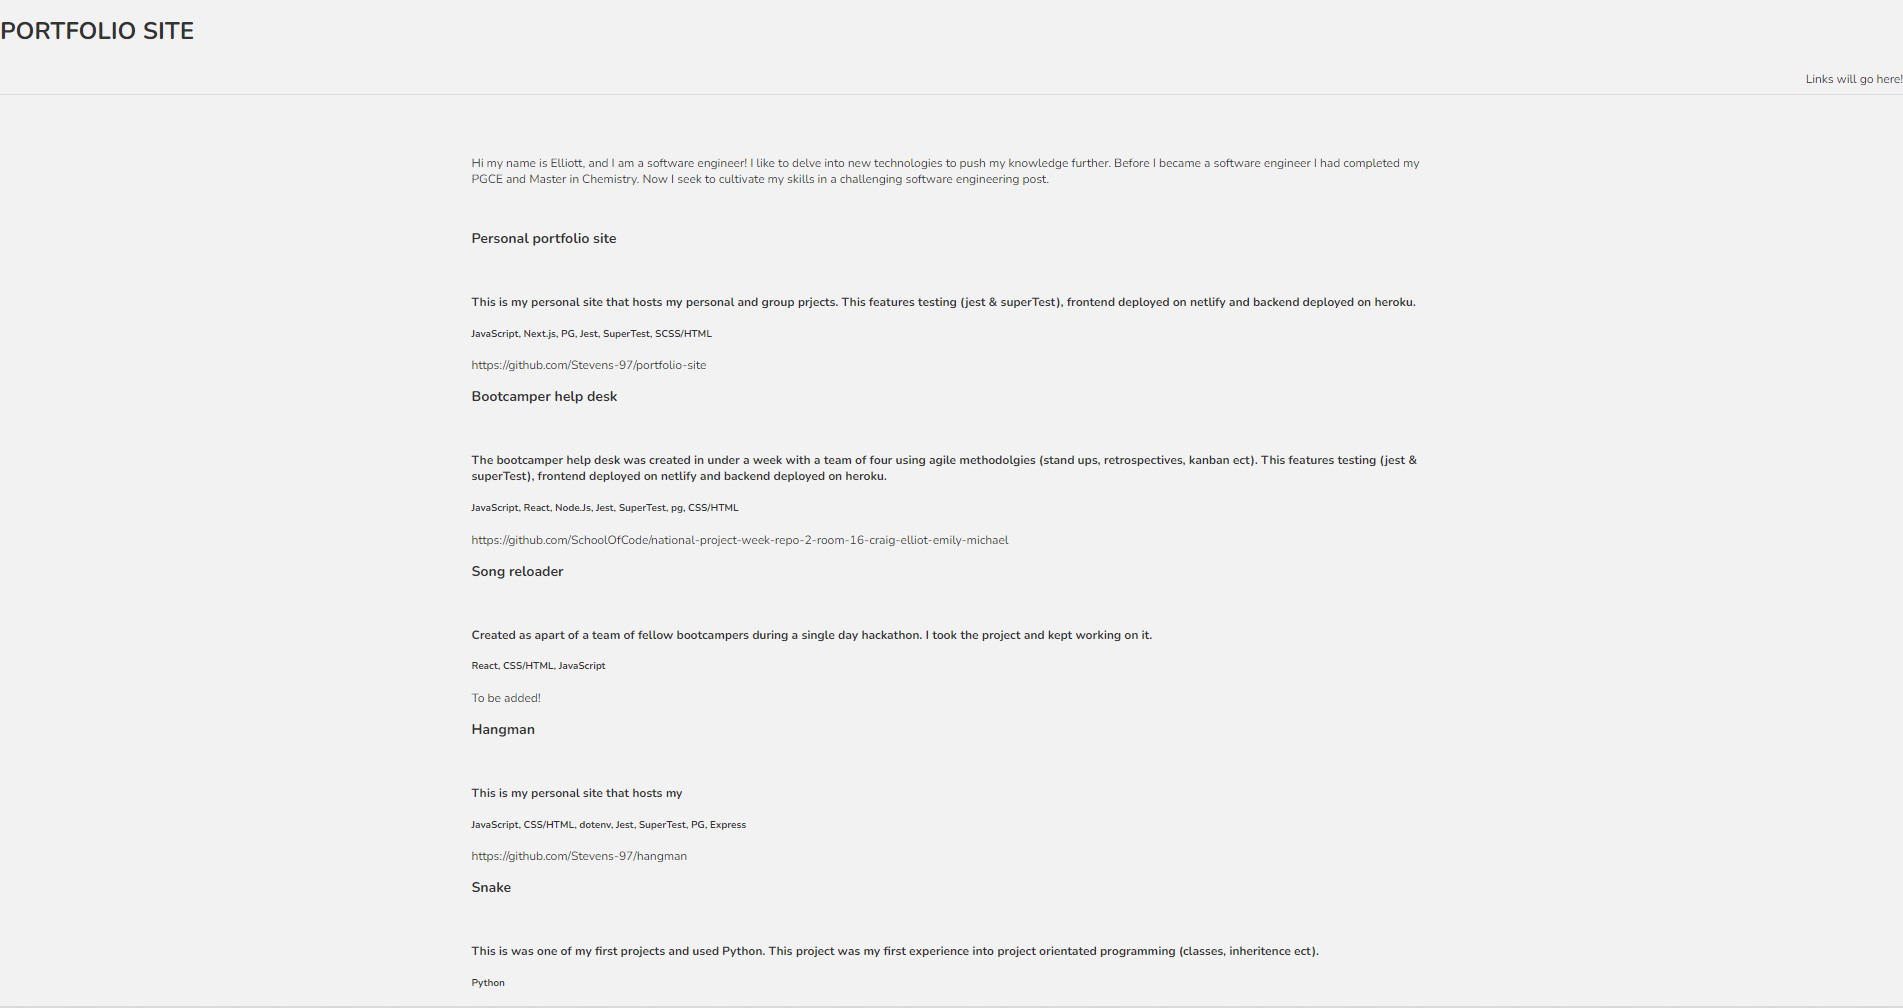
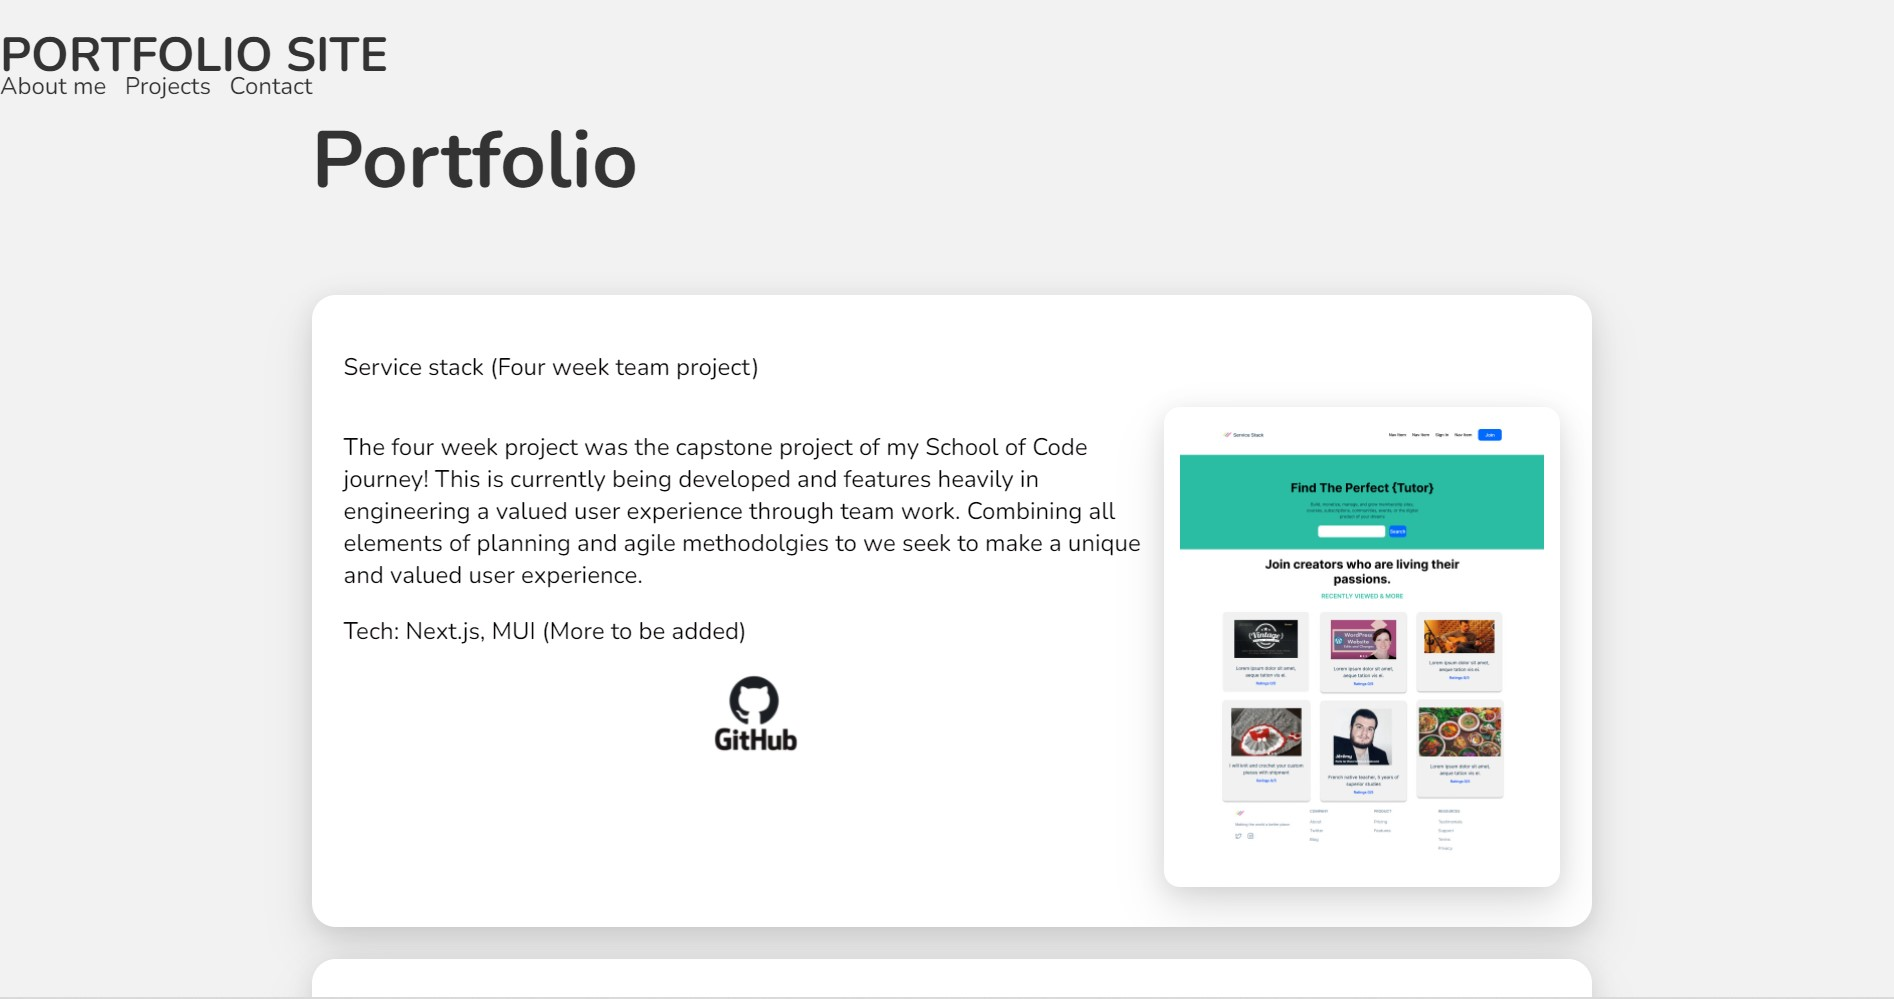
Changed some data, added some height to about me section

diff --git a/libs/data.tsx b/libs/data.tsx
@@ -18,14 +18,14 @@ export const aboutMe: AboutMeSection = {
 
 export const data: DataStructure[] = [
   {
-    project: "Personal portfolio site",
-    images: ["https://i3.lensdump.com/i/rl4ghK.jpg"],
-    text: "This is my personal site that hosts my personal and group prjects. This features testing (jest & superTest), frontend deployed on netlify and backend deployed on heroku.",
-    repo: "https://github.com/Stevens-97/portfolio-site",
-    tech: "JavaScript, Next.js, PG, Jest, SuperTest, SCSS/HTML",
+    project: "Service stack (Four week team project)",
+    images: ["https://i3.lensdump.com/i/rSVq8M.jpg"],
+    text: "The four week project was the capstone project of my School of Code journey! This is currently being developed and features heavily in engineering a valued user experience through team work. Combining all elements of planning and agile methodolgies to we seek to make a unique and valued user experience.",
+    repo: "To be added!",
+    tech: "Tech: Next.js, MUI (More to be added)",
   },
   {
-    project: "Bootcamper help desk",
+    project: "Bootcamper help desk (One week team project)",
     images: [
       "https://i2.lensdump.com/i/rl4ZMc.jpg",
       "https://i1.lensdump.com/i/rl4Iq1.jpg",
@@ -33,6 +33,13 @@ export const data: DataStructure[] = [
     text: "The bootcamper help desk was created in under a week with a team of four using agile methodolgies (stand ups, retrospectives, kanban ect). This features testing (jest & superTest), frontend deployed on netlify and backend deployed on heroku.",
     repo: "https://github.com/SchoolOfCode/national-project-week-repo-2-room-16-craig-elliot-emily-michael",
     tech: "JavaScript, React, Node.Js, Jest, SuperTest, pg, CSS/HTML",
+  },
+  {
+    project: "Personal portfolio site",
+    images: ["https://i2.lensdump.com/i/rSVsye.jpg"],
+    text: "This is my personal site that hosts my personal and group prjects. This features testing (jest & superTest), frontend deployed on netlify and backend deployed on heroku.",
+    repo: "https://github.com/Stevens-97/portfolio-site",
+    tech: "JavaScript, Next.js, PG, Jest, SuperTest, SCSS/HTML",
   },
   {
     project: "Song reloader",
@@ -65,11 +72,5 @@ export const data: DataStructure[] = [
     repo: "https://github.com/Stevens-97/snake",
     tech: "Python",
   },
-  {
-    project: "Four week project",
-    images: ["To be added!"],
-    text: "To be added!",
-    repo: "To be added!",
-    tech: "To be added!",
-  },
+
 ];

diff --git a/styles/global.scss b/styles/global.scss
@@ -175,7 +175,7 @@ footer {
 
   display: flex;
   flex-direction: column;
-  margin-bottom: 30rem;
+  margin-bottom: 34rem;
   // margin-top: 2rem;
   padding: 2rem;
   height: 30vh;
@@ -229,7 +229,7 @@ footer {
     max-width: 30rem;
     margin: 0 auto;
     padding: 1rem;
-    height: 47rem;
+    height: 50rem;
     left: 2rem;
   }
 

diff --git a/README.md b/README.md
@@ -4,6 +4,20 @@
 
 > [Site link](https://esportfoliosite.netlify.app/)
 
+
+## What I learnt
+This has been a quite an ambition project for the timescale I attempted to impliment it in. Having just over the last week introduced to TypeScript I wanted to complete this project using both TypeScript and Next.js. While this project does not benefit from some of Next.js features (I.e. getStaticProps/paths, APIs (to which I got some practice trialling and erroring these),  I did get to grips with creating my custom 404 page, using CI/CD, integrating TypeScript, using SCSS and global/module SCSS.
+
+I had wanted to use more of Next.js' features, including building a backend to serve the data. I also attempted to integrate express and PG to complete this task but felt that this was potentially more than was needed and making the solution much more complex than actually required. 
+
+The styling of this project was beyond what I had done previously. Chiefly, integration of 'react-intersection-observer' to make the transitions was extremely satisfying and something I will seek to use again in the future. 
+
+
+## To do
+- Update site as projects are completed
+
+
+
 ## Getting started
 
 Installing dependencies
@@ -28,9 +42,3 @@ Starting local environment
 
 ![Props and state diagram](./planning/images/InitialLowWireframe.jpg)
 
-## What I learnt
-This has been a quite an ambition project for the timescale I attempted to impliment it in. Having just over the last week introduced to TypeScript I wanted to complete this project using both TypeScript and Next.js. While this project does not benefit from some of Next.js features (I.e. getStaticProps/paths, APIs (to which I got some practice trialling and erroring these),  I did get to grips with creating my custom 404 page, using CI/CD, integrating TypeScript, using SCSS and global/module SCSS.
-
-I had wanted to use more of Next.js' features, including building a backend to serve the data. I also attempted to integrate express and PG to complete this task but felt that this was potentially more than was needed and making the solution much more complex than actually required. 
-
-The styling of this project was beyond what I had done previously. Chiefly, integration of 'react-intersection-observer' to make the transitions was extremely satisfying and something I will seek to use again in the future. 
